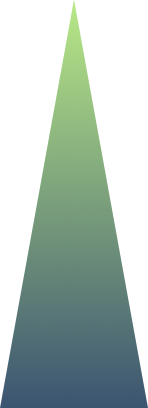
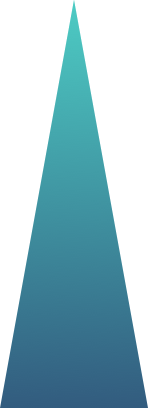
new img and updated css

diff --git a/public/style.css b/public/style.css
@@ -1,13 +1,13 @@
 html{
-  
+
   height: 100%;
 }
 
 
 body{
-  font-family: 'Montserrat', sans-serif;
-  height: 100%; 
-  overflow: hidden;  
+  font-family: -apple-system, BlinkMacSystemFont, sans-serif;;
+  height: 100%;
+  overflow: hidden;
   /* don't change overfloaw:hidden*/
 }
 
@@ -28,7 +28,7 @@ body{
     vertical-align: bottom;
     align-content: center;
     align-items: center;
-    
+
     position: fixed;
     left: 50%;
     bottom:0%;
@@ -36,12 +36,105 @@ body{
     margin: 0 auto;
 }
 
+.grid-container {
+  display: grid;
+  grid-template-columns: 20% 20% 20% 20% 20%;
+  border: none;
+  padding: 10px;
+}
 
-#bt1  {background-color: #4ECDC4;} /*78,205,196*/
-#bt2  {background-color: #F7FFF7; color:grey } /*247,255,247*/
-#bt3  {background-color: #FF6B6B;} /*255, 107, 107*/
-#bt4  {background-color: #FFE66D;} /*255,230,109*/
-#bt5  {background-color: #5BC0EB;} /*198,61,92*/
+.grid-item {
+  /* padding: 20px; */
+  font-size: 30px;
+  position: absolute;
+  text-align: center;
+  align-content: center;
+  border: none;
+}
+
+#bt1  {
+  background-image: url("images/station.png");
+  background-size: 100%;
+  background-repeat:   no-repeat;
+  background-position: center center;
+  /* border-radius: 100px; */
+  font-size: 20px;
+  color: #fafafa;
+  height: 94px;
+  width: 94px;
+  top: 25%;
+  left: 4.533%;
+  position: absolute;
+  background-color:Transparent;
+  border: none;
+  }
+
+
+#bt2  {
+  background-image: url("images/station.png");
+  background-size: 100%;
+  background-repeat:   no-repeat;
+  background-position: center center;
+  /* border-radius: 100px; */
+  font-size: 20px;
+  color: #fafafa;
+  height: 94px;
+  width: 94px;
+  top: 44.704%;
+  left: 17.333%;
+  position: absolute;
+  background-color:Transparent;
+  border: none;
+  }
+
+
+#bt3  {
+  background-image: url("images/station.png");
+  background-size: 100%;
+  background-repeat:   no-repeat;
+  background-position: center center;
+  font-size: 20px;
+  color: #fafafa;
+  height: 94px;
+  width: 94px;
+  top: 65%;
+  left: 37.6%;
+  position: absolute;
+  background-color:Transparent;
+  border: none;
+  }
+
+#bt4  {
+  background-image: url("images/station.png");
+  background-size: 100%;
+  background-repeat:   no-repeat;
+  background-position: center center;
+  font-size: 20px;
+  color: #fafafa;
+  height: 94px;
+  width: 94px;
+  top: 51.108%;
+  left: 59.467%;
+  position: absolute;
+  background-color:Transparent;
+  border: none;
+  }
+
+#bt5  {
+  background-image: url("images/station.png");
+  background-size: 100%;
+  background-repeat:   no-repeat;
+  background-position: center center;
+  font-size: 20px;
+  color: #fafafa;
+  height: 94px;
+  width: 94px;
+  top: 33.128%;
+  left: 70.4%;
+  position: absolute;
+  background-color:Transparent;
+  border: none;
+  }
 
 
 .launchPage,.launchStationContainer,.nameContainer,.sizeContainer,.shapeContainer{
@@ -57,7 +150,7 @@ body{
 }
 
 .next{
-  font-family: 'Montserrat', sans-serif;
+  font-family: -apple-system, BlinkMacSystemFont, sans-serif;;
   display: inline-block;
   padding: 15px 25px;
   font-size: 24px;
@@ -94,34 +187,33 @@ body{
 }
 
 .button{
-  font-family: 'Montserrat', sans-serif;
+  font-family: -apple-system, BlinkMacSystemFont, sans-serif;;
   display: inline-block;
-  padding: 15px 25px;
-  font-size: 18px;
+  /* padding: 15px 25px; */
+  font-size: 20px;
   cursor: pointer;
   text-align: center;
   text-decoration: none;
   outline: none;
-  color: #000;
-  background-color: #4c8ef7;
+  background-color:Transparent;
   border: none;
-  border-radius: 20px;
-  box-shadow: 0 6px #367ded;
-  padding:15px;
+  /* border-radius: 94px; */
+  /* box-shadow: 0 6px #367ded; */
+  /* padding:15px;
   margin:5px;
-  margin-top:20px;
+  margin-top:20px; */
 }
 
-.button:hover {background-color: #356fed}
+/* .button:hover {background-color: #356fed} */
 
-.button:focus {
+/* .button:focus {
   background-color: #356fed;
   box-shadow: 0 5px #234da8;
   transform: translateY(4px);
-}
+} */
 
 #replay {
-  font-family: 'Montserrat', sans-serif;
+  font-family: -apple-system, BlinkMacSystemFont, sans-serif;;
   display: inline-block;
   padding: 15px 25px;
   font-size: 18px;
@@ -148,13 +240,14 @@ body{
 .instruction{
   left:0%;
   top:15%;
-  font-size: 2em;
-  padding-top: 2em;
+  font-size: 1.25em;
+  padding-top: 20%;
   align-content: center;
   align-items: center;
   text-align: center;
   box-align: center;
   margin-bottom: 3em;
+  color:#fafafa;
 }
 
 .shapeContainer,.nameContainer{
@@ -180,9 +273,15 @@ body{
 }
 
 .launchStationContainer{
+  background-image: url("images/station_bg.png");
+  background-size:     cover;
+  background-repeat:   no-repeat;
+  background-position: center center;
+  position: absolute;
   overflow: hidden;
   position:fixed;
   height:100%;
+  width: 100%;
 }
 
 #asteroidName{
@@ -191,14 +290,14 @@ body{
   box-sizing: border-box;
   border: 2px solid #356fed;
   border-radius: 4px;
-  font-family: 'Montserrat', sans-serif;
+  font-family: -apple-system, BlinkMacSystemFont, sans-serif;;
   font-size: 20px;
   position: absolute;
   left: 10%;
 }
 
 #shoot {
-  
+
   margin-left:8%;
   margin-top: 20%;
 }
@@ -210,7 +309,7 @@ body{
 }
 
 #stationNum{
-  font-family: 'Montserrat', sans-serif;
+  font-family: -apple-system, BlinkMacSystemFont, sans-serif;;
   color:black;
   font-size: 48px;
   text-align: center;
@@ -294,7 +393,7 @@ body{
 }
 
 #learnMore {
-  font-family: 'Montserrat', sans-serif;
+  font-family: -apple-system, BlinkMacSystemFont, sans-serif;;
   display: inline-block;
   padding: 15px 25px;
   font-size: 18px;

diff --git a/public/index.html b/public/index.html
@@ -13,60 +13,61 @@
 
   </head>
   <body>
-    
+
     <div id="startScreen">
         <h1 id=title>Create Your Asteroid</h1>
 
         <button class="next" id="start" onclick="goToShape()">Start</button>
     </div>
-    
-    
+
+
     <div class="shapeContainer">
         <p class="instruction">Choose Composition</p>
         <p id="compositionInfo">Comets are made of ice and metal.</p>
         <button  class="button" class="shape" id="ast" onfocus="asteroidSelected()" ontouchstart="asteroidSelected()">Asteroid</button>
         <button  class="button" class="shape" id="comet" onfocus="cometSelected()" ontouchstart="cometSelected()">Comet</button>
         <!-- <button  class="button" class="shape" id="shape3" onfocus="shape3selected()" ontouchstart="shape3selected()">Long</button>
-       --> 
+       -->
         <button class="next" id="shapeNext" onclick="goToSize()">Next</button>
     </div>
-    
+
     <div class="sizeContainer">
         <p class="instruction">Choose a Size</p>
         <p>Your <span id="cometOrAsteroid">comet</span> is <span id="sizeValue">0</span>KM in Diameter!</p>
         <div class="slidecontainer">
           <input type="range" min="1" max="50" value="1" class="slider" id="myRange">
-          
+
         </div>
         <!-- <button  class="button" class="size" id="size1" onfocus="size1selected()" ontouchstart="size1selected()">Small</button>
         <button  class="button" class="size" id="size2" onfocus="size2selected()" ontouchstart="size2selected()">Medium</button>
         <button  class="button" class="size" id="size3" onfocus="size3selected()" ontouchstart="size3selected()">Large</button>
-         --> 
+         -->
         <button class="next" id="sizeNext" onclick="goToName()">Next</button>
     </div>
-    
+
     <div class="nameContainer">
         <p class="instruction">Name your Asteroid</p>
         <input id=asteroidName type="text">
 
         <button class="next" id="nameNext" onclick="goToStation()">Next</button>
     </div>
-    
+
 
     <div class="launchStationContainer">
-        <p class="instruction">Choose a Trajectory for your <span id="cometOrAsteroid">comet</span>!</p>
-        <div id ="stations">
-    
-          <button  class="button" id="bt1" onfocus="station1selected()" ontouchstart="station1selected()">1</button>
-          <button  class="button" id="bt2" onfocus="station2selected()" ontouchstart="station2selected()">2</button>
-          <button  class="button" id="bt3" onfocus="station3selected()" ontouchstart="station3selected()">3</button>
-          <button  class="button" id="bt4" onfocus="station4selected()" ontouchstart="station4selected()">4</button>
-          <button  class="button" id="bt5" onfocus="station5selected()" ontouchstart="station5selected()">5</button>
-    
-          <!-- <button class="next" id="shoot" onclick="goToShoot()">Ready to shoot!</button> -->
-    </div>
+      
+        <p class="instruction">Tap to choose your trajectory</p>
+        <div class="grid-container"
+        <div class ="stations">
 
-    
+          <button  class="grid-item" id="bt1" onfocus="station1selected()" ontouchstart="station1selected()">1</button>
+          <button  class="grid-item" id="bt2" onfocus="station2selected()" ontouchstart="station2selected()">2</button>
+          <button  class="grid-item" id="bt3" onfocus="station3selected()" ontouchstart="station3selected()">3</button>
+          <button  class="grid-item" id="bt4" onfocus="station4selected()" ontouchstart="station4selected()">4</button>
+          <button  class="grid-item" id="bt5" onfocus="station5selected()" ontouchstart="station5selected()">5</button>
+
+          <!-- <button class="next" id="shoot" onclick="goToShoot()">Ready to shoot!</button> -->
+
+  </div>
     </div>
 
     <div class="launchPage" id="swipeZone">
@@ -80,7 +81,7 @@
     <div id="loading">
         <p id="loadingMessage">Look at the big screen! <br>Your <span id="cometOrAsteroid">comet</span> is flying to the moon... </p>
         <img id="loadingGIF" src="images/loading2.gif">
-    
+
     </div>
 
     <div id="infoPage">
@@ -88,14 +89,14 @@
         <p>your crater is very similat to this crater on the actual Moon:</p>
         <p id="craterName">Aristoteles (87km)</p>
         <img id="craterImage" src="images/Aristoteles.jpg">
-        <p id="CraterInfo">The size and shape of your crater is really similar to our moon’s crater Aristoteles! Aristoteles is unique for having an almost hexagonal shape because of its complex terraces at the inner walls. 
-        
+        <p id="CraterInfo">The size and shape of your crater is really similar to our moon’s crater Aristoteles! Aristoteles is unique for having an almost hexagonal shape because of its complex terraces at the inner walls.
+
 </p>
         <button id="replay" onfocus="Replay()" ontouchstart="Replay()">Again!</button>
         <button id="learnMore" onfocus="LearnMore()" ontouchstart="LearnMore()">Learn More</button>
-        
+
     </div>
-   
+
     <script src="sketch.js"></script>
   </body>
 </html>
